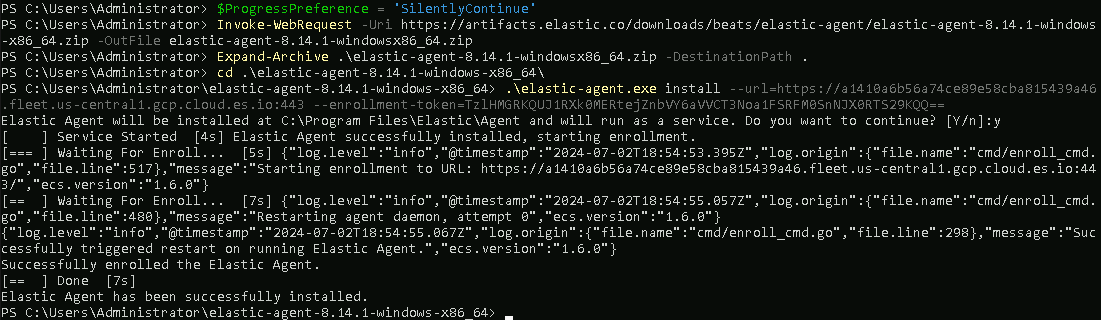
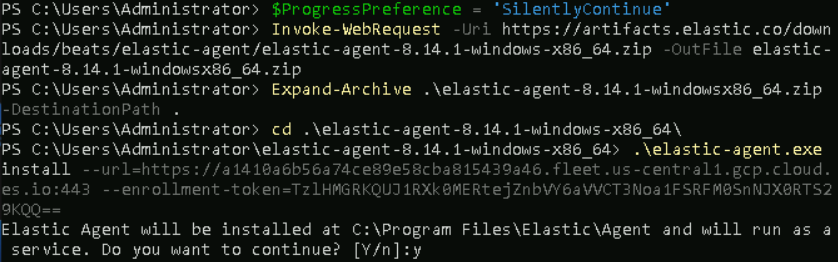
All elastic agent screenshots updated

Changed region(s): [[0.0, 0.0, 1.0, 1.0]]

diff --git a/IntroClassFiles/Tools/IntroClass/md/elastic_agent.md b/IntroClassFiles/Tools/IntroClass/md/elastic_agent.md
@@ -20,9 +20,11 @@ Press the Powershell icon in the taskbar to launch Windows Powershell.
 
 ![Powershell](./images/OpeningPowershell.png)
 
-Once the powershell instance opens, copy what you kept in the file in my case it was "Agent.txt" and paste it into the powershell and hit enter.
+Once the powershell instance opens, copy what you kept in the file in my case it was "Agent.txt" and paste it into the powershell and hit enter. 
 
-![Powershell](./images/powershell.PNG)
+NOTE: you may have to copy/paste each part of the command separately.
+
+![Powershell](./images/powershell.png)
 
 Make sure you type `y` and hit enter when prompted by powershell.
 

diff --git a/IntroClassFiles/Tools/IntroClass/md/elk_in_the_cloud.md b/IntroClassFiles/Tools/IntroClass/md/elk_in_the_cloud.md
@@ -101,6 +101,3 @@ The ELK stack is now configured and we have our connection information saved.
 Part two will cover how to install and configure an Elastic Agent.
 
 [Part Two](./elastic_agent.md "Elastic Agents")
-
-
-test
